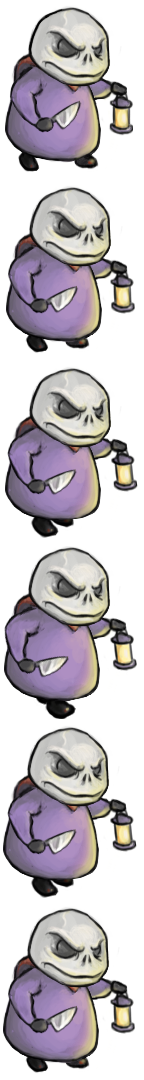
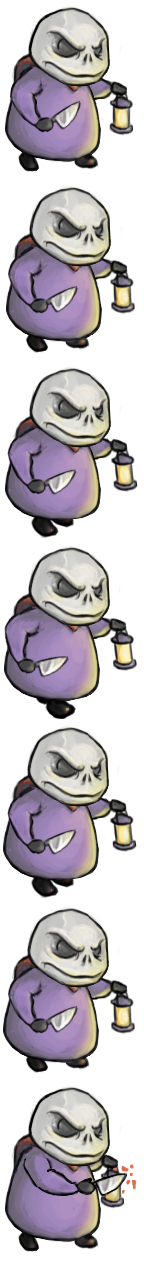
essence is in, hearts increase it enemy and zombies decrease it, it degrades naturally, broken state change on end

diff --git a/src/game-scene.js b/src/game-scene.js
@@ -9,6 +9,7 @@ var Grave = require('./grave');
 var Heart = require('./heart');
 var Zombie = require('./zombie');
 var LostSoul = require('./lost-soul');
+var Essence = require('./essence');
 var Light = require('./light');
 
 var DigTimes = {
@@ -35,7 +36,7 @@ GameScene.prototype.onCreate = function(){
         url: null
     };
 
-    var tilemap = new Tilemap({
+    this.tilemap = new Tilemap({
         game: this.game,
         map: 'mapgen-map',
         tileWidth: 64,
@@ -51,10 +52,17 @@ GameScene.prototype.onCreate = function(){
     this.game.add.existing(this.player);
 
     this.enemy = new Enemy(this.game);
-    this.enemy.setPosition(
-        this.player.x + (Math.random() * this.game.width) - this.game.width/2,
-        this.player.y + (Math.random() * this.game.height) - this.game.height/2
-    );
+    if (Math.random() > 0.5){
+        this.enemy.setPosition(
+            this.player.x - this.game.width/2,
+            this.player.y + (Math.random() * this.game.height) - this.game.height/2
+        );
+    } else {
+        this.enemy.setPosition(
+            this.player.x + this.game.width/2,
+            this.player.y + (Math.random() * this.game.height) - this.game.height/2
+        );
+    }
     this.enemy.setTarget(this.player);
     this.game.add.existing(this.enemy);
 
@@ -68,10 +76,11 @@ GameScene.prototype.onCreate = function(){
     this.sprites.push(this.player);
     this.sprites.push(this.enemy);
 
+    this.zombies = [];
     this.graves = [];
 
     var grave;
-    var contents = ['heart', 'lostsoul', /*'zombie', 'nothing'*/];
+    var contents = ['heart', 'lostsoul', 'zombie', 'nothing'];
     for (var idx = 0; idx < 20; idx++){
         grave = new Grave(
             this.game,
@@ -83,18 +92,29 @@ GameScene.prototype.onCreate = function(){
         this.sprites.push(grave);
         this.game.add.existing(grave);
     }
+
+    var style = {font: "20px Arial", fill: "#fff", align: "left"};
+    this.player.essence = new Essence(this.game);
+    this.game.add.existing(this.player.essence);
 };
 
 GameScene.prototype.onUpdate = function(){
     this.game.physics.arcade.collide(this.player, this.graves);
+    this.game.physics.arcade.collide(this.enemy, this.graves);
+    this.game.physics.arcade.collide(this.player, this.enemy, this.enemyAttack, null, this);
+    this.game.physics.arcade.collide(this.player, this.zombies, this.enemyAttack, null, this);
     this.player.update();
     this.enemy.update();
+    this.player.essence.update();
     this.resolveZ();
 
-    if(this.enemy.overlap(this.player)){
-        this.onPlayerCaught();
+    if(this.player.essence.value <= 0){
+        this.game.transitionScene('title');
     }
+};
 
+GameScene.prototype.enemyAttack = function(player, enemy){
+    enemy.attack(player);
 };
 
 GameScene.prototype.onDestroy = function(){
@@ -116,18 +136,20 @@ GameScene.prototype.resolveZ = function(){
     }
 
     if(this.heart) this.heart.bringToTop();
-};
-
-GameScene.prototype.onPlayerCaught = function(){
-    //this.game.transitionScene('title');
+    this.player.essence.bringToTop();
 };
 
 GameScene.prototype.onRender = function(){
     //this.game.debug.body(this.player);
+    //this.game.debug.body(this.enemy);
     //for (var idx = 0; idx < this.graves.length; idx++){
     //    this.game.debug.body(this.graves[idx]);
     //}
+    //for (var idx = 0; idx < this.zombies.length; idx++){
+    //    this.game.debug.body(this.zombies[idx]);
+    //}
     this.player.onRender();
+    this.player.essence.render();
 };
 
 GameScene.prototype.getDigArea = function(){
@@ -170,6 +192,7 @@ GameScene.prototype.spawnZombie = function(grave){
     zombie.setTarget(this.player);
     zombie.setPosition(grave.x, grave.y + 100);
     this.sprites.push(zombie);
+    this.zombies.push(zombie);
     this.game.add.existing(zombie);
 };
 
@@ -184,6 +207,7 @@ GameScene.prototype.spawnLostSoul = function(grave){
 GameScene.prototype.spawnHeart = function(grave){
     this.heart = new Heart(this.game, grave.x, grave.y);
     this.game.add.existing(this.heart);
+    this.player.essence.value += 2000;
 };
 
 module.exports = GameScene;

diff --git a/src/player.js b/src/player.js
@@ -3,7 +3,7 @@ var Phaser = require('phaser');
 var Player = function(game){
     Phaser.Sprite.call(this, game, 0, 0, 'player', 0);
     game.physics.enable(this, Phaser.Physics.ARCADE);
-    this.body.setSize(this.width*0.9, this.height*0.35, 0, this.height*0.2);
+    this.body.setSize(this.width*0.4, this.height*0.35, 0, this.height*0.2);
     this.scale.x = this.scale.y = this.baseScale = 0.6;
     this.anchor.setTo(0.5, 0.5);
 
@@ -40,6 +40,7 @@ Player.prototype.update = function(){
 
     this.timeSegment.x = this.x + 30;
     this.timeSegment.y = this.y - 30;
+
 };
 
 Player.prototype.handleInput = function(){
@@ -117,7 +118,12 @@ Player.prototype.startDig = function(){
     );
     this.digEmitter.setXSpeed(-120, 120);
     this.digEmitter.setYSpeed(-160, -120);
-    this.digEmitter.makeParticles('particle-map', [0, 1, 2, 3, 4]);
+
+    var particleMap = {
+        'grass': [0, 1, 2, 3, 4],
+        'grave': [10, 10, 10, 11, 11, 11, 12, 13, 14]
+    };
+    this.digEmitter.makeParticles('particle-map', particleMap[this.digArea.type]);
     this.digEmitter.gravity = 300;
     this.digEmitter.start(false, 1000, 10);
 
@@ -129,7 +135,7 @@ Player.prototype.stopDig = function(){
     this.game.time.events.remove(this.digTimer);
     this.digEmitter.on = false;
     var oldEmitter = this.digEmitter;
-    setTimeout(function(){ oldEmitter.destroy();}, 1000);
+    this.game.time.events.add(1000, function(){ oldEmitter.destroy();}, this);
     this.digging = false;
     this.timeSegment.kill();
 };
@@ -145,6 +151,8 @@ Player.prototype.dig = function(){
     var complete = (this.digArea.time - (this.digTimer.tick - this.game.time.now)) / this.digArea.time;
     var frame = Math.floor(complete*8);
     this.timeSegment.frame = frame;
+    this.digEmitter.x = this.body.x + this.body.width / 2;
+    this.digEmitter.y = this.body.y + this.body.height / 2;
 };
 
 Player.prototype.onReorderZ = function(){

diff --git a/src/enemy.js b/src/enemy.js
@@ -3,13 +3,17 @@ var Phaser = require('phaser');
 var Enemy = function(game){
     Phaser.Sprite.call(this, game, 0, 0, 'enemy', 0);
     game.physics.enable(this, Phaser.Physics.ARCADE);
+    this.body.setSize(this.width*0.55, this.height*0.35, -this.width*0.1, this.height*0.2);
     this.scale.x = this.scale.y = this.baseScale = 0.6;
     this.anchor.setTo(0.5, 0.5);
     this.normalSpeed = 50;
     this.speed = 50;
 
     this.animations.add('walk', [0, 1, 2, 3, 4, 5], 8, true);
+    this.animations.add('stab', [1, 0, 0, 0, 6, 6, 0, 1], 10, false);
     this.play('walk');
+
+    console.log(this.hitArea);
 };
 
 Enemy.prototype = Object.create(Phaser.Sprite.prototype);
@@ -28,7 +32,27 @@ Enemy.prototype.update = function(){
     this.updateSpeed();
 };
 
+Enemy.prototype.attack = function(target){
+    if (this.attacking){
+        return false;
+    }
+    this.play('stab');
+    this.attacking = true;
+    this.game.time.events.add(500, function(){
+        target.essence.value -= 4000;
+    }, this);
+    this.game.time.events.add(2000, function(){
+        this.attacking = false;
+        this.play('walk');
+    }, this);
+};
+
 Enemy.prototype.updateSpeed = function(){
+    if (this.attacking){
+        this.body.velocity.x = 0;
+        this.body.velocity.y = 0;
+        return;
+    }
     var delta = {
         x: this.target.x - this.x,
         y: this.target.y - this.y

diff --git a/src/essence.js b/src/essence.js
@@ -1,0 +1,34 @@
+var Phaser = require('phaser');
+
+var Essence = function(game){
+    Phaser.Sprite.call(this, game, 0, 470, 'pixel', 0);
+    this.baseValue = this.value = 10000;
+    this.baseDrain = this.drain = 1;
+    this.scale.y = 10;
+    this.alpha = 0.6;
+    this.fixedToCamera = true;
+};
+
+Essence.prototype = Object.create(Phaser.Sprite.prototype);
+Essence.prototype.constructor = Essence;
+
+Essence.prototype.update = function(){
+    this.value -= this.drain;
+    var adjustedValue = this.value > this.baseValue ? 1: this.value / this.baseValue;
+    this.scale.x = this.game.width * adjustedValue;
+
+    var colour = {
+        r: 115 + (48 * adjustedValue),
+        g: 61 + (129 * adjustedValue),
+        b: 64 + (132 * adjustedValue)
+    };
+
+    this.tint = colour.r << 16 | colour.g << 8 | colour.b;
+
+    this.drain = this.baseDrain;
+};
+
+Essence.prototype.render = function(){
+};
+
+module.exports = Essence;

diff --git a/src/assets.js b/src/assets.js
@@ -2,8 +2,8 @@ var Phaser = require('phaser');
 
 var assets = {
     images: [
-
         ['title', 'img/title.png', 650, 250],
+        ['pixel', 'img/pix.png', 1, 1],
         ['test-tilemap', 'img/test-tilemap.png', 40, 40],
         ['base-tileset', 'img/base-tilemap.png', 64, 64],
         ['mapgen-tileset', 'img/base-tilemap2.png', 64, 64]
@@ -14,7 +14,7 @@ var assets = {
         ['zombie', 'img/zombie.png', 96, 163],
         ['lost-soul', 'img/lost-soul.png', 120, 160],
         ['grave', 'img/grave.png', 195, 319],
-        ['heart', 'img/heart.png', 79, 99],
+        ['heart', 'img/heart.png', 78, 99],
         ['timer', 'img/timer.png', 32, 32],
         ['particle-map', 'img/particle-map.png', 3, 3]
     ],

diff --git a/src/zombie.js b/src/zombie.js
@@ -24,7 +24,24 @@ Zombie.prototype.update = function(){
     this.updateSpeed();
 };
 
+Zombie.prototype.attack = function(target){
+    if (this.attacking){
+        return false;
+    }
+    target.essence.value -= 1000;
+    this.attacking = true;
+    this.game.time.events.add(2000, function(){
+        this.attacking = false;
+        this.play('walk');
+    }, this);
+};
+
 Zombie.prototype.updateSpeed = function(){
+    if (this.attacking){
+        this.body.velocity.x = 0;
+        this.body.velocity.y = 0;
+        return;
+    }
     var delta = {
         x: this.target.x - this.x,
         y: this.target.y - this.y

diff --git a/src/heart.js b/src/heart.js
@@ -1,11 +1,12 @@
 var Phaser = require('phaser');
 
 var Heart = function(game, x, y){
-    Phaser.Sprite.call(this, game, x, y, 'heart', 0);
+    Phaser.Sprite.call(this, game, x, y+50, 'heart', 0);
     this.game = game;
     this.anchor.set(0.5, 0.5);
-    this.tween = game.add.tween(this).to({y: y-100}, 1200, Phaser.Easing.Quadratic.Out, false);
+    this.tween = game.add.tween(this).to({y: y-50}, 2000, Phaser.Easing.Quadratic.Out, false);
     this.tween.onComplete.add(function(){
+        console.log('heart-gone');
         this.kill();
         this.destroy();
     }, this);
